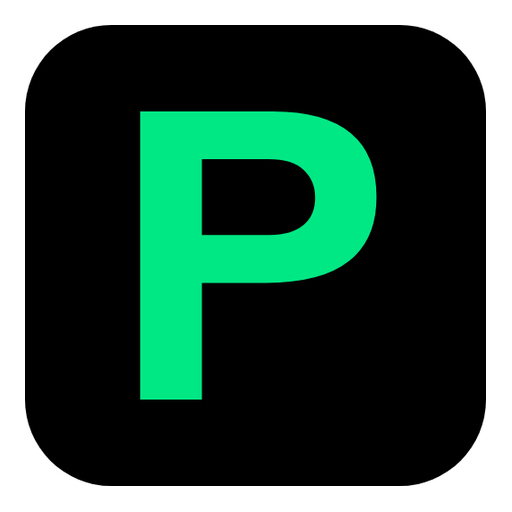
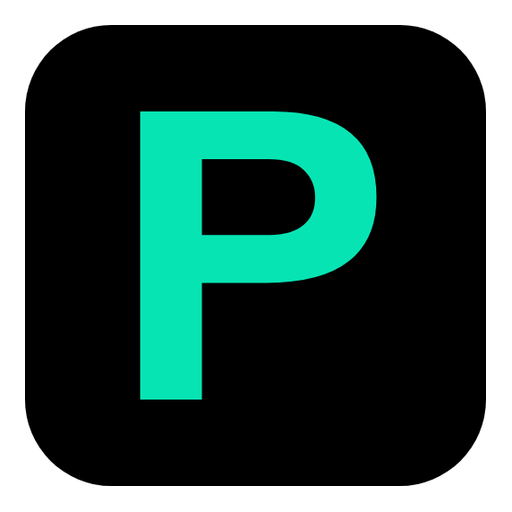
style(site): move the brand green to teal and success to a true green
The brand ramp rotates to OKLCH hue 170 (green400 #07e4b4). The success
ramp is renamed from jade to leaf and moves to hue 144, so success and
the brand no longer look alike. Terminal projections, the wordmark and
banner sources, and every rendered mark, icon and card follow.

Changed region(s): [[0.25, 0.2188, 0.75, 0.7812]]

diff --git a/site/css/brand.css b/site/css/brand.css
@@ -16,17 +16,17 @@
 	--pancode-ink2: #d6d2c7;
 	--pancode-ink3: #a6a297;
 	--pancode-ink4: #837f76;
-	--pancode-green50: #e1f9e7;
-	--pancode-green100: #b4f3c8;
-	--pancode-green200: #83eeaa;
-	--pancode-green300: #57eb95;
-	--pancode-green400: #00e884;
-	--pancode-green500: #18d77c;
-	--pancode-green600: #25b469;
-	--pancode-green700: #137643;
-	--pancode-green800: #0c562f;
-	--pancode-green900: #032f17;
-	--pancode-green950: #021a0b;
+	--pancode-green50: #dcfaee;
+	--pancode-green100: #a6f5d9;
+	--pancode-green200: #61f0c6;
+	--pancode-green300: #0becbb;
+	--pancode-green400: #07e4b4;
+	--pancode-green500: #08d4a7;
+	--pancode-green600: #06b28c;
+	--pancode-green700: #00755b;
+	--pancode-green800: #015541;
+	--pancode-green900: #002f22;
+	--pancode-green950: #001a12;
 	--pancode-azure50: #eff6fd;
 	--pancode-azure100: #d3e8fe;
 	--pancode-azure200: #aed5fd;
@@ -38,10 +38,10 @@
 	--pancode-azure800: #093f6c;
 	--pancode-azure900: #0a263f;
 	--pancode-azure950: #061320;
-	--pancode-jade50: #dff8f1;
-	--pancode-jade300: #34dbb9;
-	--pancode-jade700: #026b58;
-	--pancode-jade950: #001c15;
+	--pancode-leaf50: #e4fbe3;
+	--pancode-leaf300: #61e165;
+	--pancode-leaf700: #1c6a21;
+	--pancode-leaf950: #081b08;
 	--pancode-amber50: #fdf0d9;
 	--pancode-amber300: #f2b106;
 	--pancode-amber700: #765400;
@@ -85,8 +85,8 @@
 	--on-fill: var(--pancode-black);
 	--secondary: var(--pancode-azure400);
 	--secondary-soft: var(--pancode-azure950);
-	--success: var(--pancode-jade300);
-	--success-soft: var(--pancode-jade950);
+	--success: var(--pancode-leaf300);
+	--success-soft: var(--pancode-leaf950);
 	--warning: var(--pancode-amber300);
 	--warning-soft: var(--pancode-amber950);
 	--error: var(--pancode-red300);
@@ -101,7 +101,7 @@
 	--viz-3: var(--pancode-amber300);
 	--viz-4: var(--pancode-violet300);
 	--viz-5: var(--pancode-red300);
-	--viz-6: var(--pancode-jade300);
+	--viz-6: var(--pancode-leaf300);
 	--viz-7: var(--pancode-ink1);
 	--viz-8: var(--pancode-ink3);
 	--elevation-0: none;
@@ -172,11 +172,11 @@
 	--syntax-string: var(--pancode-amber300);
 	--syntax-number: var(--pancode-violet300);
 	--syntax-function: var(--pancode-green300);
-	--syntax-type: var(--pancode-jade300);
+	--syntax-type: var(--pancode-leaf300);
 	--syntax-property: var(--pancode-ink2);
 	--syntax-operator: var(--pancode-ink3);
 	--syntax-prompt: var(--pancode-green400);
-	--syntax-added: var(--pancode-jade300);
+	--syntax-added: var(--pancode-leaf300);
 	--syntax-removed: var(--pancode-red300);
 	--selection-bg: var(--selection);
 	--selection-ink: var(--on-selection);
@@ -205,8 +205,8 @@ html[data-theme="dark"] {
 	--on-fill: var(--pancode-black);
 	--secondary: var(--pancode-azure400);
 	--secondary-soft: var(--pancode-azure950);
-	--success: var(--pancode-jade300);
-	--success-soft: var(--pancode-jade950);
+	--success: var(--pancode-leaf300);
+	--success-soft: var(--pancode-leaf950);
 	--warning: var(--pancode-amber300);
 	--warning-soft: var(--pancode-amber950);
 	--error: var(--pancode-red300);
@@ -221,7 +221,7 @@ html[data-theme="dark"] {
 	--viz-3: var(--pancode-amber300);
 	--viz-4: var(--pancode-violet300);
 	--viz-5: var(--pancode-red300);
-	--viz-6: var(--pancode-jade300);
+	--viz-6: var(--pancode-leaf300);
 	--viz-7: var(--pancode-ink1);
 	--viz-8: var(--pancode-ink3);
 	--elevation-0: none;
@@ -257,8 +257,8 @@ html[data-theme="light"] {
 	--on-fill: var(--pancode-green400);
 	--secondary: var(--pancode-azure600);
 	--secondary-soft: var(--pancode-azure50);
-	--success: var(--pancode-jade700);
-	--success-soft: var(--pancode-jade50);
+	--success: var(--pancode-leaf700);
+	--success-soft: var(--pancode-leaf50);
 	--warning: var(--pancode-amber700);
 	--warning-soft: var(--pancode-amber50);
 	--error: var(--pancode-red700);
@@ -273,7 +273,7 @@ html[data-theme="light"] {
 	--viz-3: var(--pancode-amber700);
 	--viz-4: var(--pancode-violet700);
 	--viz-5: var(--pancode-red700);
-	--viz-6: var(--pancode-jade700);
+	--viz-6: var(--pancode-leaf700);
 	--viz-7: var(--pancode-pine1);
 	--viz-8: var(--pancode-pine3);
 	--elevation-0: none;

diff --git a/site/DESIGN.md b/site/DESIGN.md
@@ -31,9 +31,9 @@ The family names follow the same rule in HTML: PanCode, PanStore, PanKit, PanHub
 `design-system.json` is the sole sanctioned colour source. `palette` lists every hex, `ramps` says what each ramp is for, and `themes` maps semantic roles to palette names for dark and light. `tokens.mjs` generates `css/brand.css`; the build rejects drift. New sanctioned colours require an explicit request and a documented reason here.
 
 - **Ground.** The dark page is true black, `#000000`, for AMOLED screens. Surfaces above it step through the `void` ramp, a near-neutral with a trace of green: `void1` raised, `void2` sunk and hover, `void3` overlay, `void4` hairline, `void5` strong line, `void6` control border.
-- **Brand green.** `green400` `#00e884` is the focal green on black and the colour of Pan in the wordmark. It marks the brand, links, the primary action, the focus ring, selection and the terminal prompt. It is never a state: green does not mean success here.
+- **Brand green.** The brand ramp is a teal-green at OKLCH hue 170. `green400` `#07e4b4` is the focal green on black and the colour of Pan in the wordmark, the mark and the terminal rails. It marks the brand, links, the primary action, the focus ring, selection and the terminal prompt. It is never a state: green does not mean success here.
 - **Azure secondary.** `azure400` `#4aa8ff` is the colour of Code in the wordmark. It is spent sparingly: section numbers and small mono labels, version tags, one highlight per view. It is never a fill behind running text and never an error or a warning.
-- **States.** Success is `jade`, warning is `amber`, error is `red`, info takes the `azure` ramp. Each has a foreground and a wash per theme. Jade is a blue-leaning green chosen so success never reads as the brand. Every state also carries a glyph or a word; colour alone never carries meaning.
+- **States.** Success is `leaf`, warning is `amber`, error is `red`, info takes the `azure` ramp. Each has a foreground and a wash per theme. Leaf is a true green at OKLCH hue 144, 26 degrees from the brand teal, so success never reads as the brand. Every state also carries a glyph or a word; colour alone never carries meaning.
 - **Text.** Dark uses the `ink` ramp, light uses `pine`. Primary text is not pure white: `ink1` is a warm ivory that avoids halation on black. `faint` is for decoration and disabled labels only, on the ground and the first raised surface.
 - **Light theme.** A warm off-white paper (`mist1`) with white raised surfaces. The focal green cannot carry text on a light ground, so links and focus use `green700` and the secondary uses `azure600`, and filled controls invert: a black fill with brand green text. Black slabs with green type are what keep the light theme PanCode.
 - **Code and terminal surfaces** stay dark in both themes and take the `--code-*` and `--syntax-*` tokens. Product captures keep their own surface and are never recoloured.
@@ -71,7 +71,7 @@ Favor rules and open layouts over nested panels and grids of interchangeable car
 
 ## Terminal
 
-PanCode in the terminal takes the same roles through `src/interactive/theme/tokens.ts`, the only place a terminal colour may be written. Truecolor uses the palette hex. `design-system.json.terminal` gives the nearest 256-colour indexes and the 16-colour names for each role in both themes. At 16 colours success is cyan and the brand is green, so the two stay apart with no ramp to lean on. A light terminal takes the light theme's roles: `green700` for the brand, `azure600` for the secondary. Glyphs carry state alongside colour at every depth.
+PanCode in the terminal takes the same roles through `src/interactive/theme/tokens.ts`, the only place a terminal colour may be written. Truecolor uses the palette hex. `design-system.json.terminal` gives the nearest 256-colour indexes and the 16-colour names for each role in both themes. At 16 colours the brand teal is cyan and success is green, so the two stay apart with no ramp to lean on. A light terminal takes the light theme's roles: `green700` for the brand, `azure600` for the secondary. Glyphs carry state alongside colour at every depth.
 
 ## Voice
 
